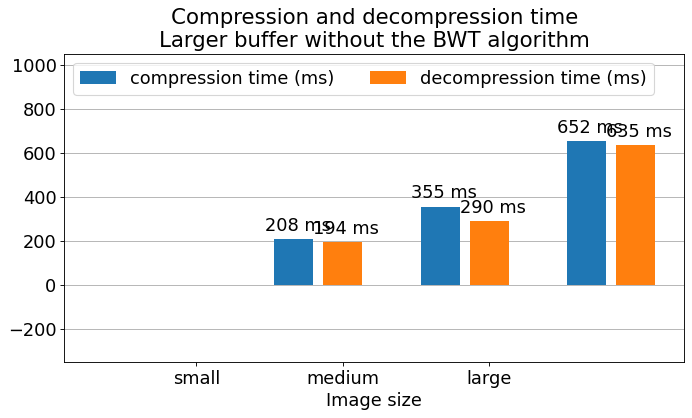
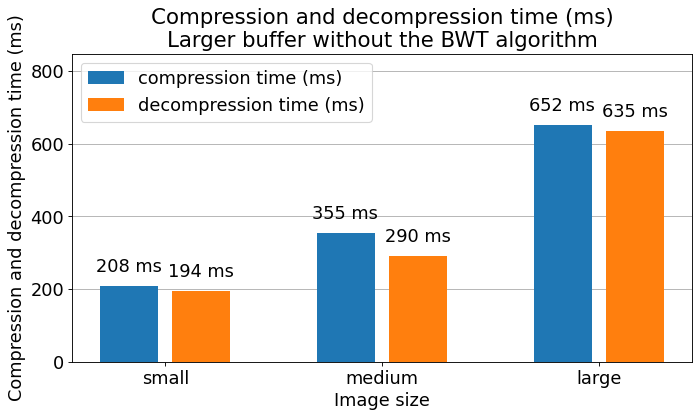
New image

Changed region(s): [[0.0, 0.0311, 1.0, 0.9952], [0.2124, 0.0, 0.8801, 0.1244], [0.6676, 0.8708, 0.7587, 0.933]]

diff --git a/read_res.py b/read_res.py
@@ -58,7 +58,7 @@ for file_res in os.listdir("results"):
                     add_str = "%"
                 plt.text(x_vals[i] - x_off, list(dict_vals[rowname].values())[i] + yoff, str(list(dict_vals[rowname].values())[i]) + add_str)
     
-    plt.xticks([i * (numrows + 1) for i in range(len(list(dict_vals[rowname].values())))], use_cols)
+                plt.xticks([i * (numrows + 1) for i in range(len(list(dict_vals[rowname].values())))], use_cols)
 
     title = "Size comparison with ratio\n"
 
@@ -91,23 +91,17 @@ for file_res in os.listdir("results"):
     for ix_row in range(len(dict_vals.keys())):
         rowname = list(dict_vals.keys())[ix_row] 
         if "time" in rowname:
-            x_vals = [i * (numrows + 1) + ix_row - int(numrows // 2) for i in range(len(list(dict_vals[rowname].values())))] 
+            x_vals = [i * (numrows + 1) + ix_row - 2 - int(numrows // 2) for i in range(len(list(dict_vals[rowname].values())))] 
             plt.bar(x_vals, list(dict_vals[rowname].values()), label = rowname, zorder = 2)
             for i in range(len(x_vals)):
-                yoff = 0.06 * max(list(dict_vals[rowname].values()))
-                if list(dict_vals[rowname].values())[i] < 0:
-                    yoff = 0.7 * max(list(dict_vals[rowname].values()))
+                yoff = 0.06 * max(max(list(dict_vals["compression time (ms)"].values())), max(list(dict_vals["decompression time (ms)"].values())))
                 add_str = " " + rowname.split("(")[-1].replace(")", "")
-                x_off = len(str(list(dict_vals[rowname].values())[i]) + add_str) / 10
-                if "before" in rowname:
-                    x_off = len(str(list(dict_vals[rowname].values())[i]) + add_str) / 7
-                if "%" in add_str:
-                    add_str = "%"
+                x_off = len(str(list(dict_vals[rowname].values())[i]) + add_str) / 13
                 plt.text(x_vals[i] - x_off, list(dict_vals[rowname].values())[i] + yoff, str(list(dict_vals[rowname].values())[i]) + add_str)
     
-    plt.xticks([i * (numrows + 1) for i in range(len(list(dict_vals[rowname].values())))], use_cols)
+                plt.xticks([i * (numrows + 1) + 0.5 for i in range(len(list(dict_vals[rowname].values())))], use_cols)
 
-    title = "Compression and decompression time\n"
+    title = "Compression and decompression time (ms)\n"
 
     if "larger" in file_res:
         title += "Larger buffer"
@@ -119,11 +113,11 @@ for file_res in os.listdir("results"):
         title += " with the BWT algorithm"
         
     plt.title(title)
-    plt.xlim(-2.7, 10)
-    plt.ylim(-350, 1050)
+    plt.ylim(0, max(max(list(dict_vals["compression time (ms)"].values())), max(list(dict_vals["decompression time (ms)"].values()))) * 1.3)
     plt.xlabel("Image size")
+    plt.ylabel("Compression and decompression time (ms)")
     plt.grid(axis = 'y')  
-    plt.legend(ncol = 3, loc = "upper left")
+    plt.legend(ncol = 1, loc = "upper left")
     plt.savefig("results/" + file_res.replace(".csv", "_") + "compression_decompression_time.png", bbox_inches = "tight")
     plt.close()
     
@@ -230,4 +224,50 @@ for file_res in os.listdir("results"):
     plt.xlabel("Image size")
     plt.grid(axis = 'y')   
     plt.savefig("results/" + file_res.replace(".csv", "_") + "ds_vals.png", bbox_inches = "tight")
+    plt.close()
+
+    numrows = 2
+
+    plt.figure(figsize = (10, 5), dpi = 80)
+    plt.rcParams.update({'font.size': 16}) 
+    
+    x_vals = [i * (numrows + 1) + 3 - 2 - int(numrows // 2) for i in range(len(list(cs_vals.values())))] 
+    plt.bar(x_vals, list(cs_vals.values()), label = "compression speed (kB/s)", zorder = 2)
+    for i in range(len(x_vals)):
+        yoff = 0.04 * max(max(list(cs_vals.values())), max(list(ds_vals.values())))
+        add_str = " kB/s"
+        x_off = len(str(list(cs_vals.values())[i]) + add_str) / 8
+        plt.text(x_vals[i] - x_off, list(cs_vals.values())[i] + yoff, str(list(cs_vals.values())[i]) + add_str)
+
+        plt.xticks([i * (numrows + 1) + 0.5 for i in range(len(list(cs_vals.values())))], use_cols)
+
+    x_vals = [i * (numrows + 1) + 4 - 2 - int(numrows // 2) for i in range(len(list(ds_vals.values())))] 
+    plt.bar(x_vals, list(ds_vals.values()), label = "decompression speed (kB/s)", zorder = 2)
+    for i in range(len(x_vals)):
+        yoff = 0.06 * max(max(list(cs_vals.values())), max(list(ds_vals.values())))
+        add_str = " kB/s"
+        x_off = len(str(list(ds_vals.values())[i]) + add_str) / 17
+        plt.text(x_vals[i] - x_off, list(ds_vals.values())[i] + yoff, str(list(ds_vals.values())[i]) + add_str)
+
+        plt.xticks([i * (numrows + 1) + 0.5 for i in range(len(list(ds_vals.values())))], use_cols)
+
+    title = "Compression and decompression speed (kB/s)\n"
+
+    if "larger" in file_res:
+        title += "Larger buffer"
+    if "smaller" in file_res:
+        title += "Smaller buffer"
+    if "with_" not in file_res:
+        title += " without the BWT algorithm"
+    else:
+        title += " with the BWT algorithm"
+        
+    plt.title(title)
+    plt.xlim(-1.5, 8.5)
+    plt.ylim(0, max(max(list(cs_vals.values())), max(list(ds_vals.values()))) * 1.3)
+    plt.xlabel("Image size")
+    plt.ylabel("Compression and decompression speed (kB/s)")
+    plt.grid(axis = 'y')  
+    plt.legend(ncol = 1, loc = "upper left")
+    plt.savefig("results/" + file_res.replace(".csv", "_") + "compression_decompression_speed.png", bbox_inches = "tight")
     plt.close()
